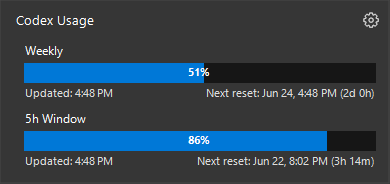
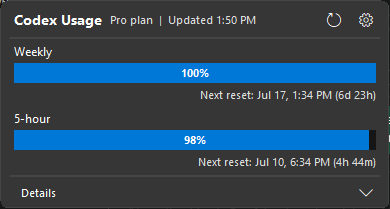
docs: update usage tray guidance and screenshots

diff --git a/README.md b/README.md
@@ -1,19 +1,61 @@
 # Codex Usage Tray
 
-Windows tray utility for monitoring Codex usage limits.
-
-Clicking the tray percentage opens a compact usage panel with weekly and 5h window remaining usage, last update time, and reset timing:
+Codex Usage Tray is a Windows tray utility for monitoring the usage limits of the account signed in to the Codex CLI. The tray icon shows the selected remaining-usage percentage, and a left-click opens a compact popup with the current plan, weekly and 5-hour remaining usage, last update time, and reset timing when available.
 
 ![Codex Usage tray popup](docs/images/tray-usage-popup.png)
+
+## Requirements
+
+- Windows.
+- A Windows-accessible Codex CLI installation. Confirm it is available with `codex --version`.
+- A Codex account signed in through the CLI for the same Windows user that runs the tray app. Run `codex login` before starting the app if needed.
+
+The app looks for the standard npm Codex installation and then for `codex` on the Windows `PATH`. It does not provide a separate sign-in flow.
 
 ## Download
 
 Download the latest `CodexUsageTray.exe` from the [GitHub releases page](https://github.com/jeremygold02/codex-usage-tray-icon/releases/latest).
 
-## Notes
+## How usage is read
 
-- The tray icon always shows the selected remaining-usage percentage.
-- The settings window lets you choose whether the tray percentage reflects weekly or 5h remaining usage.
+Each refresh starts a short-lived local `codex app-server --stdio` process and reads the signed-in account's rate-limit data directly. The tray app does not submit a prompt or make a synthetic model request to obtain usage data.
+
+## Popup and details
+
+The popup opens in its compact state and shows the primary weekly and 5-hour limits. A status line appears while refreshing, when automatic checks are paused, or when the latest refresh failed.
+
+When the account response includes reset credits, a `Details` control appears. Expand it to see:
+
+- Available reset credits, including their titles and local expiration date/time when supplied by Codex.
+
+![Expanded Codex Usage details](docs/images/tray-usage-details.png)
+
+The related Settings options can hide reset availability, reset times, or last-updated times. Details are collapsed again the next time the popup opens.
+
+## Refresh and settings
+
+- Use the popup refresh icon or **Refresh now** in the tray menu for an immediate check. The refresh control is disabled while a check is already running.
+- Automatic refresh defaults to every 300 seconds while Codex is running and can be set from 30 to 3600 seconds.
+- Idle refresh defaults to off. When no Codex process is running, automatic checks pause unless an idle interval is configured; manual refresh remains available.
+- A failed refresh keeps the last successful values visible and marks them as stale instead of replacing them with empty data.
+- Open Settings from the popup gear or tray menu. Changes are saved only when **OK** is selected and immediately update the icon, popup, notifications, startup behavior, and refresh schedule as applicable.
+- Settings also provides theme and tray appearance controls, threshold notifications, popup visibility options, Windows startup, and update checks.
+
+![Codex Usage Tray settings](docs/images/settings.png)
+
+## Troubleshooting
+
+- **Codex CLI was not found:** verify `codex --version` in Windows, install or add the CLI to `PATH`, then restart the tray app so it inherits the updated environment.
+- **Codex is not signed in:** run `codex login` as the same Windows user, then refresh again.
+- **App-server errors or timeouts:** update the Codex CLI, confirm it starts normally, and retry from the popup. The last successful snapshot remains visible after a failed refresh.
+- **Waiting for Codex / checks paused:** start Codex, use manual refresh, or configure an idle refresh interval in Settings.
+- **Reset expiration details are missing:** those rows appear only when Codex returns the corresponding account data and the related popup option is enabled.
+
+## Privacy
+
+Codex credentials remain managed by the Codex CLI; the tray app does not copy or store them. Usage snapshots are kept in memory, while app preferences are stored locally in `%APPDATA%\CodexUsageTray\settings.json`.
+
+The Codex CLI contacts OpenAI for the authenticated rate-limit read. The tray app also contacts GitHub to check for releases and, when requested, download an update. It has no separate telemetry or analytics path and does not send prompts or synthetic model requests.
 
 ## Attribution
 
